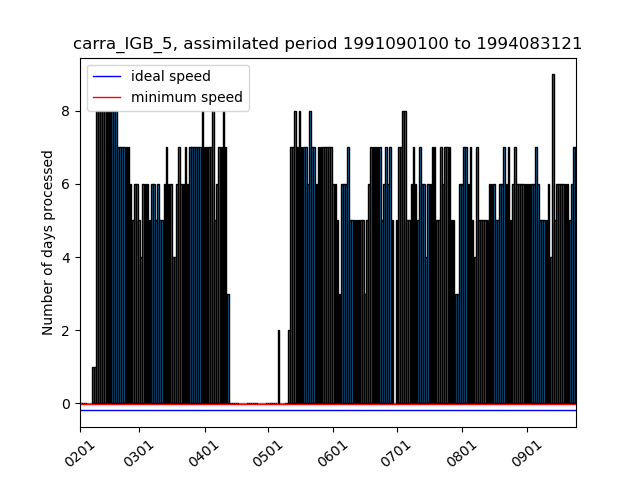
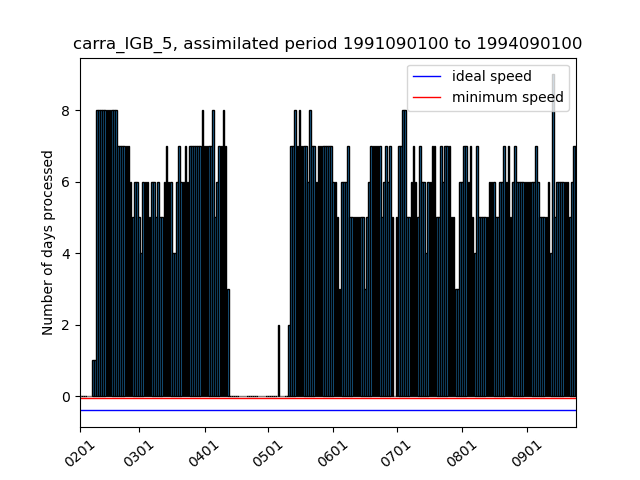
update repo

diff --git a/current_state_sims.html b/current_state_sims.html
@@ -2,18 +2,18 @@
 <h1>Estimated completion dates and simulation speeds</h1>
 <p>Stream (production) completion date based on 30d (7d) moving avg speed</p>
 <p><a href="https://docs.google.com/document/d/1zDKAxuEXYnWWYzT3SZnZwY5WW8nodUMeYRjAGz46coc/edit#">Details of the calculation of the completion dates</a></p>
-<p>Last update: 2021/09/25 06:45:30 UTC</p>
+<p>Last update: 2021/09/25 12:44:06 UTC</p>
 <p>Total progress CARRA: 99.22% <a href="https://hirlam.org/portal/CARRA/Progress/GanntChart_CARRA.html"> (see detailed progress meter in Gantt chart) </a></p>
 <p>Total progress PANARCTIC: 90.91% </p>
 <p><a href="https://hirlam.org/portal/CARRA/Progress/waiting_times.html"> Queue waiting times for all streams</a></p>
 <p><a href="https://hirlam.org/portal/CARRA/Progress/mars_status.html"> MARS archive throughput </a></p>
 <html><table border="1"><tr><th>expId</th><th>Current assimilated date</th><th>End date of stream </th><th> Completion date</th><th> Avg. throughput (7d) </th> <th>Avg. throughput (30d) </th> <th> Remarks</tr>
-<tr bgcolor="#FFFFFF"><td>carra_NE_3</td><td>2021063000</td><td>2021063021</td><td>2021092506</td><td>(2.43) days/day</td><td>(3.57) days/day</td><td></tr>
+<tr bgcolor="#FFFFFF"><td>carra_NE_3</td><td>2021063000</td><td>2021063021</td><td>2021092512</td><td>(2.43) days/day</td><td>(3.57) days/day</td><td></tr>
 <tr bgcolor="#33FF38"><td>carra_NE_4</td><td>1992090100</td><td>1992083021</td><td>Finished on 20210824</td><td>(0.0) days/day</td><td>(0.0) days/day</td><td>Stream finished</tr>
 <tr bgcolor="#33FF38"><td>carra_NE_5</td><td>1994090100</td><td>1994083021</td><td>Finished on 20210824</td><td>(0.0) days/day</td><td>(0.0) days/day</td><td>Stream finished</tr>
-<tr bgcolor="#33FF38"><td>carra_NE_6</td><td>1997070100</td><td>1997063021</td><td>2021092501</td><td>(0.0) days/day</td><td>(4.87) days/day</td><td>Stream finished</tr>
-<tr bgcolor="#FFFFFF"><td>carra_IGB_3</td><td>2021063000</td><td>2021063021</td><td>2021092506</td><td>(3.14) days/day</td><td>(3.43) days/day</td><td></tr>
-<tr bgcolor="#33FF38"><td>carra_IGB_4</td><td>1992090100</td><td>1992083021</td><td>2021092412</td><td>(0.0) days/day</td><td>(2.67) days/day</td><td>Stream finished</tr>
-<tr bgcolor="#33FF38"><td>carra_IGB_5</td><td>1994083121</td><td>1994083021</td><td>2021092502</td><td>(6.14) days/day</td><td>(5.97) days/day</td><td>Stream finished</tr>
-<tr bgcolor="#FFA500"><td>carra_IGB_6</td><td>1996112409</td><td>1997063021</td><td>2021110110</td><td>(5.86) days/day</td><td>(5.87) days/day</td><td>Completion date after project end (20211031)</tr>
-<tr bgcolor="#FFFFFF"><td>carra_pan</td><td>2018072512</td><td>2018083121</td><td>2021100614</td><td>(3.14) days/day</td><td>(3.27) days/day</td><td></tr>
+<tr bgcolor="#33FF38"><td>carra_NE_6</td><td>1997070100</td><td>1997063021</td><td>2021092507</td><td>(0.0) days/day</td><td>(4.87) days/day</td><td>Stream finished</tr>
+<tr bgcolor="#FFFFFF"><td>carra_IGB_3</td><td>2021063000</td><td>2021063021</td><td>2021092512</td><td>(3.14) days/day</td><td>(3.43) days/day</td><td></tr>
+<tr bgcolor="#33FF38"><td>carra_IGB_4</td><td>1992090100</td><td>1992083021</td><td>2021092418</td><td>(0.0) days/day</td><td>(2.67) days/day</td><td>Stream finished</tr>
+<tr bgcolor="#33FF38"><td>carra_IGB_5</td><td>1994090100</td><td>1994083021</td><td>2021092504</td><td>(6.14) days/day</td><td>(5.97) days/day</td><td>Stream finished</tr>
+<tr bgcolor="#FFA500"><td>carra_IGB_6</td><td>1996112600</td><td>1997063021</td><td>2021110108</td><td>(5.86) days/day</td><td>(5.87) days/day</td><td>Completion date after project end (20211031)</tr>
+<tr bgcolor="#FFFFFF"><td>carra_pan</td><td>2018072612</td><td>2018083121</td><td>2021100613</td><td>(3.14) days/day</td><td>(3.27) days/day</td><td></tr>
